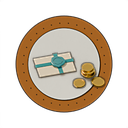
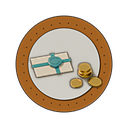
Graphismes 3D des Expéditions : quatre finitions (gardes des épées, anneau d'argent, sacs, objets de faveur)
Claude-Session: https://claude.ai/code/session_013imxrBtnjcaCcqsphPahqh

Changed region(s): [[0.2188, 0.375, 0.8438, 0.7188]]

diff --git a/data/anglais/anglais-seq03.js b/data/anglais/anglais-seq03.js
@@ -1531,16 +1531,16 @@ JEU.enregistrer("anglais", {
    "niveau": 2,
    "enonce": "« Shall » s'emploie avec tous les sujets : Shall they come ?",
    "corrections": [
-    "Faux : shall s'emploie avec I et we, surtout pour proposer quelque chose : Shall we come ?",
+    "Faux : shall s'emploie avec I et we : Shall we come ?",
     "Faux : shall ne s'emploie qu'au passé.",
     "Faux : shall s'emploie seulement avec you."
    ],
-   "explication": "Shall accompagne I et we, le plus souvent pour proposer quelque chose, comme dans « Shall we go » ou « Shall I help you ». Avec les autres sujets, la question au futur se fait avec will : « Will they come ».",
+   "explication": "Shall accompagne I et we : « Shall I play ? », « Shall we go ? ». Avec les autres sujets, la question au futur se fait avec will : « Will they come ? ».",
    "source": {
     "fichier": "cours/anglais/Anglais 5e - Livret 1 - Corriges.pdf",
     "page": 9
    },
[2 lines of base64/hex data omitted]
    "poids": 1
   },
   {

diff --git a/data/cours/langue-conj10.js b/data/cours/langue-conj10.js
@@ -873,7 +873,7 @@ JEU.enregistrer("cours", {
     "Donner ses formes selon le mode, le temps et la personne",
     "Chercher dans le dictionnaire la façon d'écrire son infinitif",
     "Trouver quelle fonction il occupe dans la phrase",
-    "L'accorder en genre et en nombre avec le nom qu'il complète"
+    "L'accorder en genre et en nombre, comme un adjectif"
    ],
    "explication": "Conjuguer, c'est donner les formes d'un verbe selon le mode, le temps et la personne : je chante, nous chantions, qu'il chante. Chercher la fonction d'un mot ou l'orthographe de son infinitif, c'est de l'analyse, pas de la conjugaison.",
    "indice": "Pense à ce qui change entre je chante, nous chantions et qu'il chante.",

diff --git a/data/cours/methode-ombrothermique.js b/data/cours/methode-ombrothermique.js
@@ -544,7 +544,7 @@ JEU.enregistrer("cours", {
     "Les températures se lisent à gauche, en °C",
     "Les précipitations se lisent à droite, en mm",
     "L'axe horizontal est gradué en années",
-    "Les précipitations se lisent à gauche, en °C"
+    "Les précipitations se lisent à gauche, en mm"
    ],
    "explication": "En bas, les douze mois ; à gauche, les températures en °C ; à droite, les précipitations en mm. L'axe horizontal ne porte jamais d'années : le diagramme décrit une année moyenne, mois par mois.",
    "source": {

diff --git a/data/cours/methode-graphique.js b/data/cours/methode-graphique.js
@@ -367,7 +367,7 @@ JEU.enregistrer("cours", {
    "enonce": "Pourquoi le titre d'un graphique suit-il toujours le modèle « évolution de … en fonction de … » ?",
    "choix": [
     "Parce qu'il dit quelle grandeur on suit et de quoi elle dépend",
-    "Parce que c'est la phrase la plus courte à écrire au-dessus d'un graphique",
+    "Parce qu'il rappelle dans quel ordre on a tracé les deux axes",
     "Parce que le titre remplace le nom et l'unité des deux axes",
     "Parce qu'il indique les graduations à mettre sur chaque axe"
    ],
